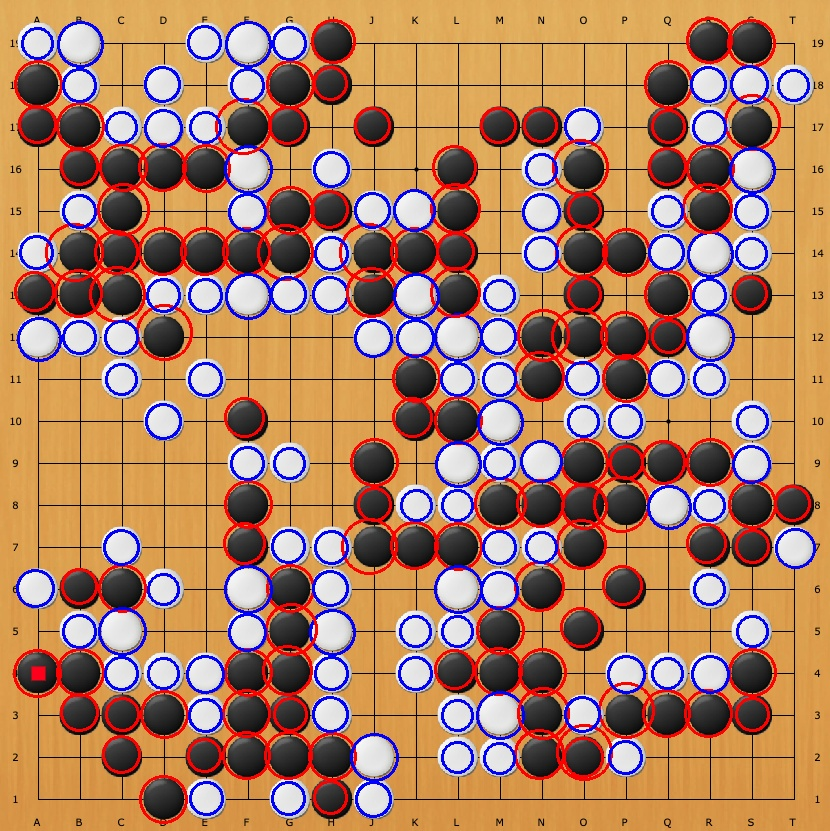
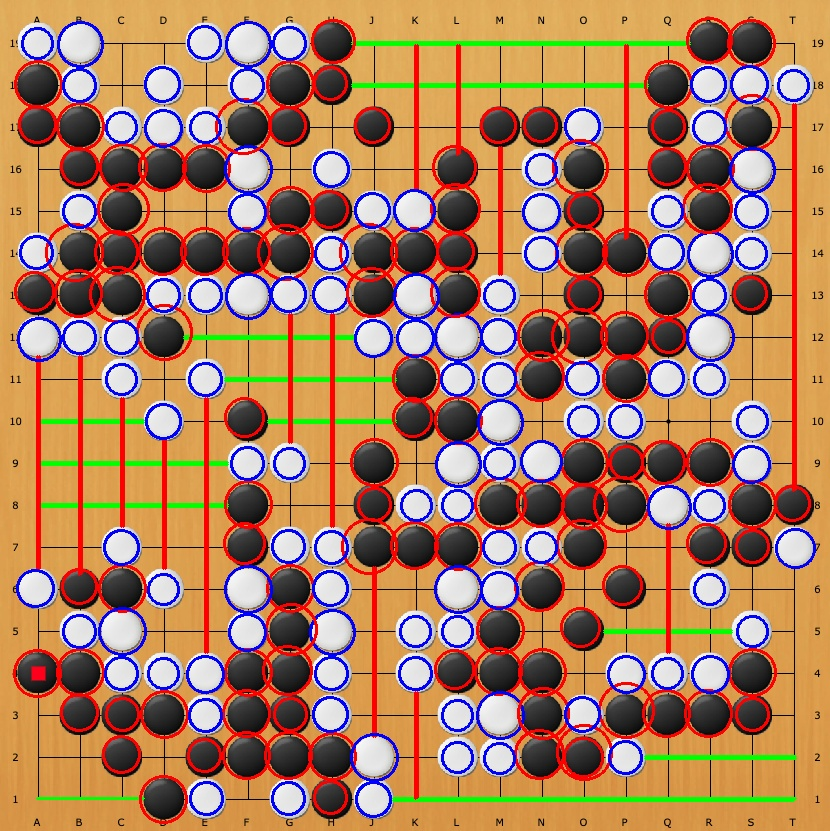
棋盘上坐标线条的查找

diff --git a/src/python/util/board_edges.py b/src/python/util/board_edges.py
@@ -46,6 +46,27 @@ def board_tetect(image_path, save_dir):
     # 转换为灰度图
     gray = cv2.cvtColor(image, cv2.COLOR_BGR2GRAY)
         
+    # 霍夫变换找到棋盘上的线条
+    lines = cv2.HoughLinesP(cv2.Canny(gray, 50, 150, apertureSize=3), 1, np.pi / 180, 100, minLineLength=100, maxLineGap=10)
+
+    horizontal_lines = []
+    vertical_lines = []
+
+    if lines is not None:
+        for line in lines:
+            x1, y1, x2, y2 = line[0]
+            if x1 == x2:
+                vertical_lines.append(line)
+            elif y1 == y2:
+                horizontal_lines.append(line)
+    for line in horizontal_lines:
+        x1, y1, x2, y2 = line[0]
+        cv2.line(image, (x1, y1), (x2, y2), (0, 255, 0), 2)
+
+    for line in vertical_lines:
+        x1, y1, x2, y2 = line[0]
+        cv2.line(image, (x1, y1), (x2, y2), (0, 0, 255), 2)
+    
     # 高斯模糊
     # blur = cv2.GaussianBlur(gray,(5,5),0)
 
@@ -65,23 +86,7 @@ def board_tetect(image_path, save_dir):
     # 轮廓提取
     contours, _ = cv2.findContours(erosion, cv2.RETR_EXTERNAL, cv2.CHAIN_APPROX_SIMPLE)
 
-    # TODO 找到最大的轮廓，即棋盘的轮廓---由于有棋子的遮挡。这样有问题
-    # max_area = 0
-    # max_contour = None
-    # for contour in contours:
-    #     area = cv2.contourArea(contour)
-    #     if area > max_area:
-    #         max_area = area
-    #         max_contour = contour
-    
-    #找到最小外界矩阵，即棋盘的4个角
-    # rect = cv2.minAreaRect(max_contour)
-    # box = cv2.boxPoints(rect)
-    # box = np.intp(box)
-    # cv2.drawContours(image, [box], 0, (0, 0, 255), 2)
-
-    # width = int(rect[1][0])
-    # height = int(rect[1][1])
+   
 
     # 根据黑白颜色分别设置阈值，得到两个二值图像
     hsv = cv2.cvtColor(image, cv2.COLOR_BGR2HSV)
@@ -112,7 +117,6 @@ def board_tetect(image_path, save_dir):
     
     print('circles:',len(circles))
     for i in circles:
-        print('i',i)
         # 圆心
         cx = int(i[0])
         cy = int(i[1])
